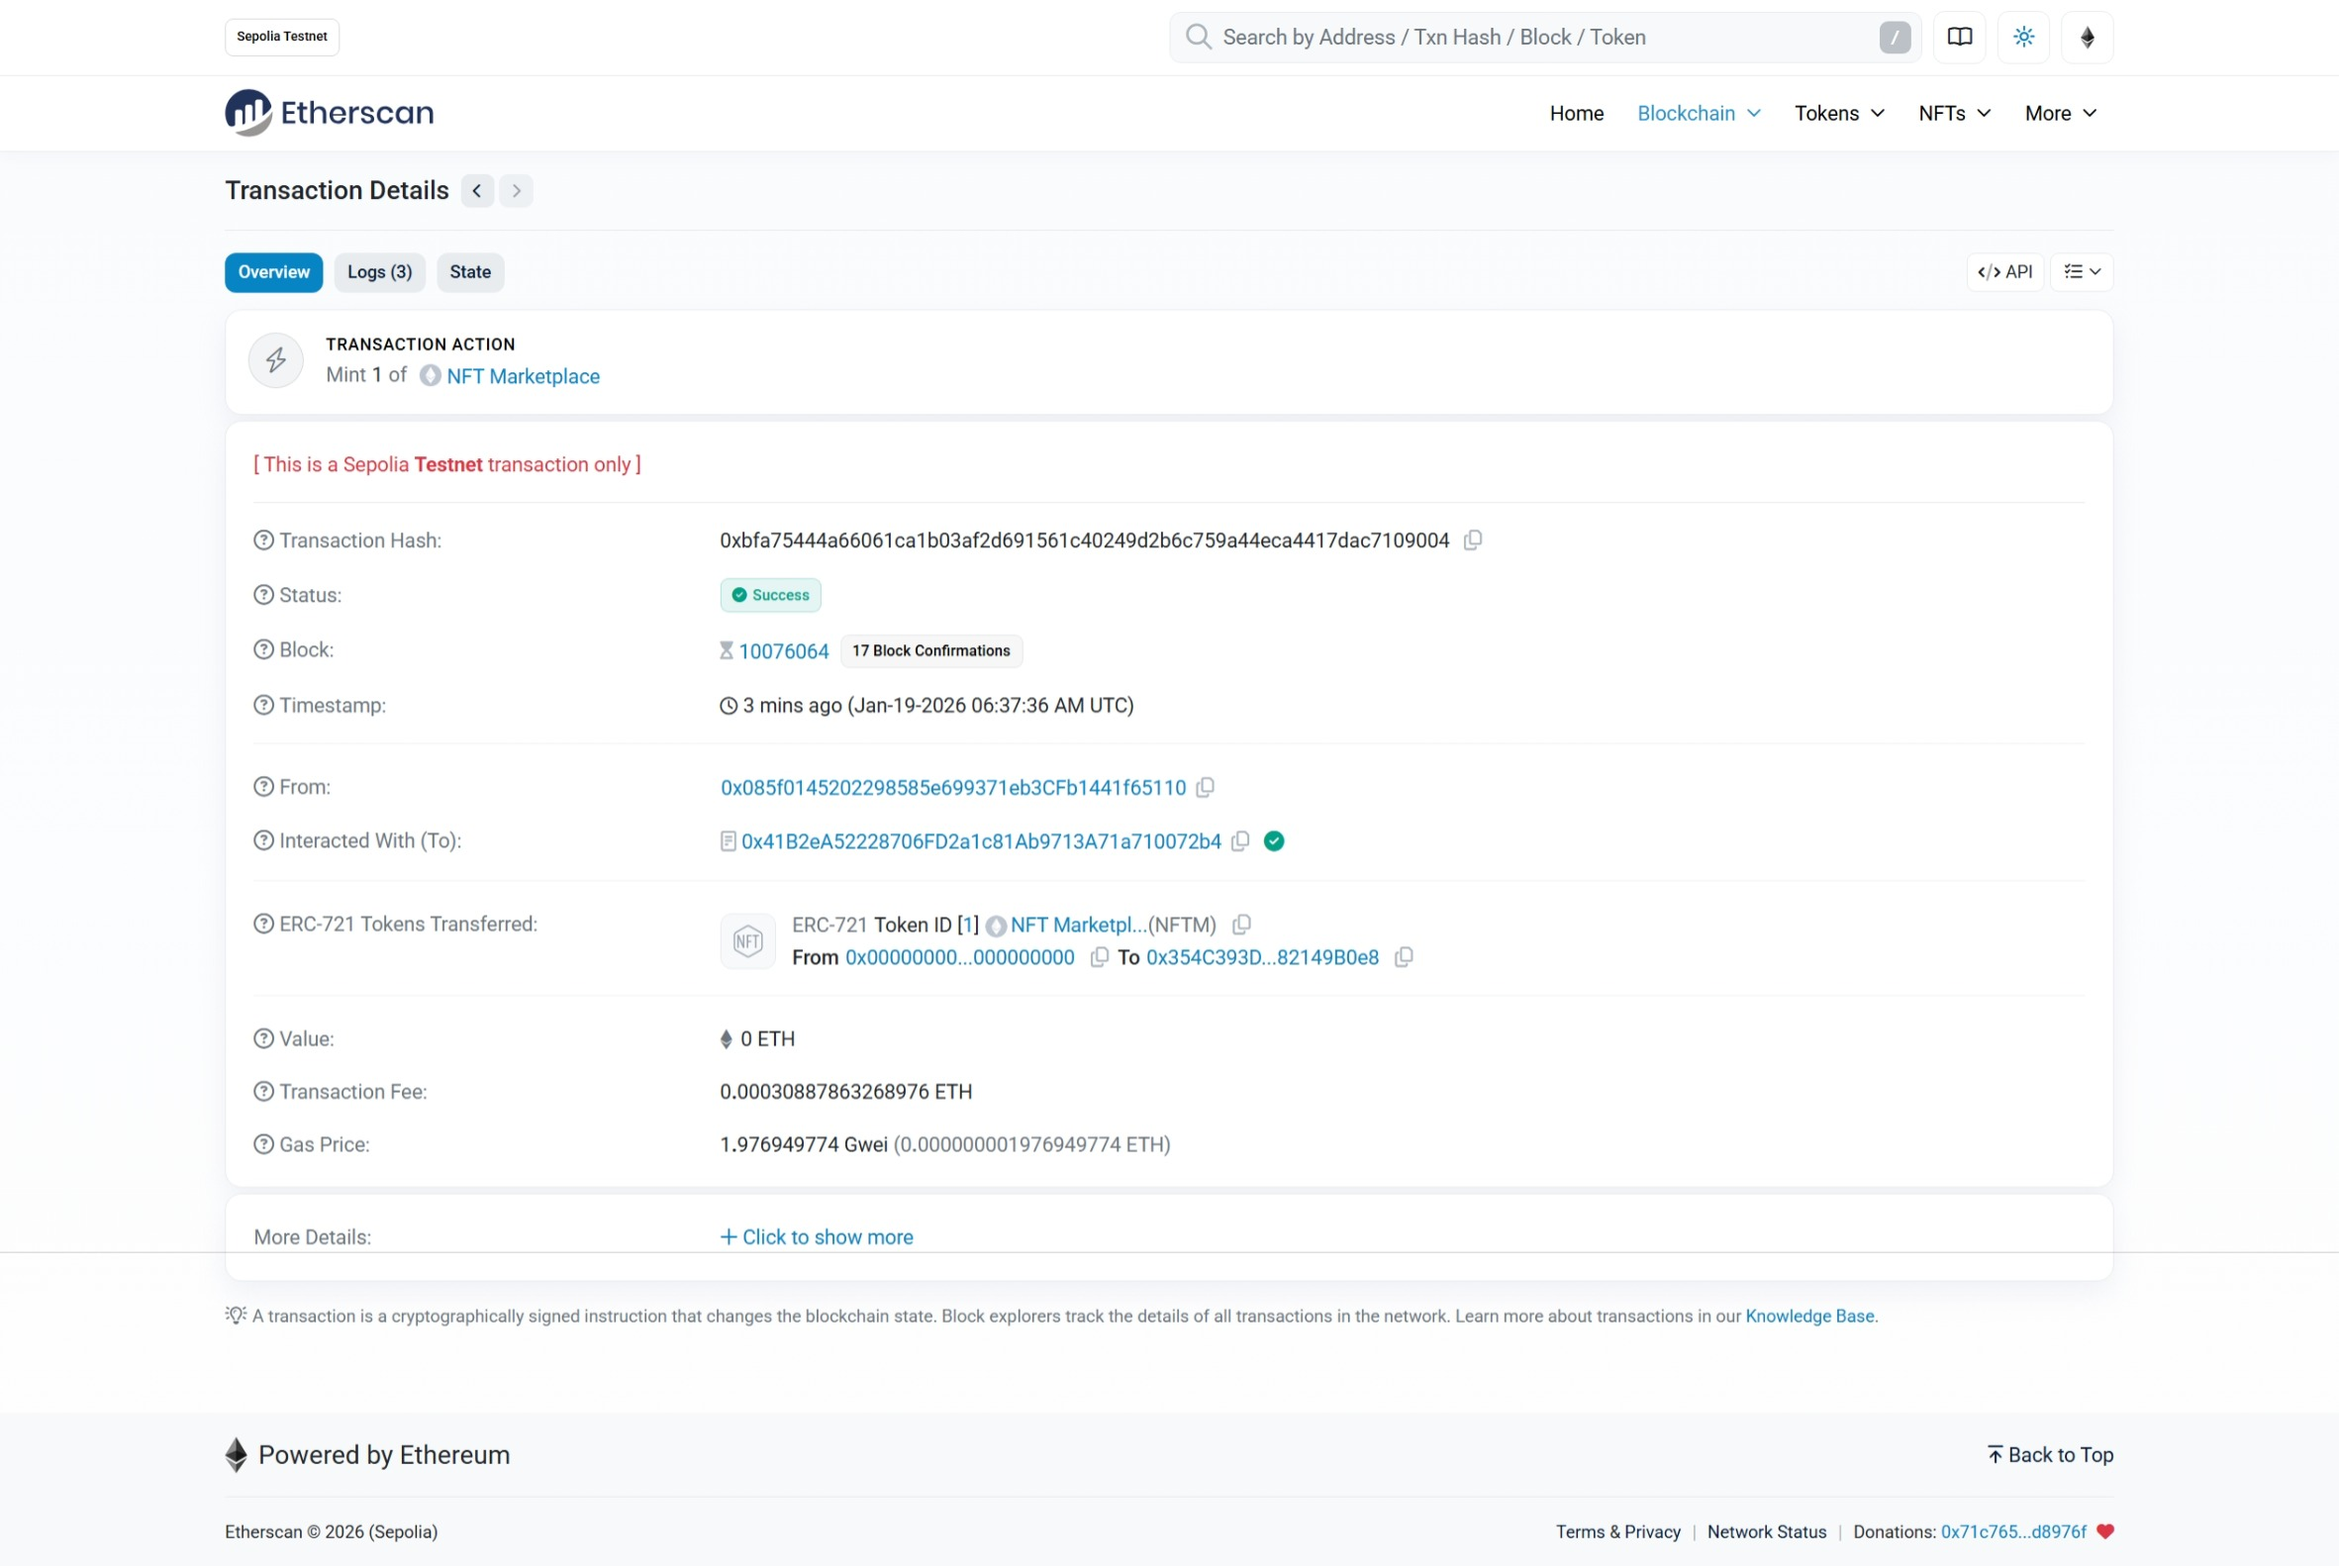
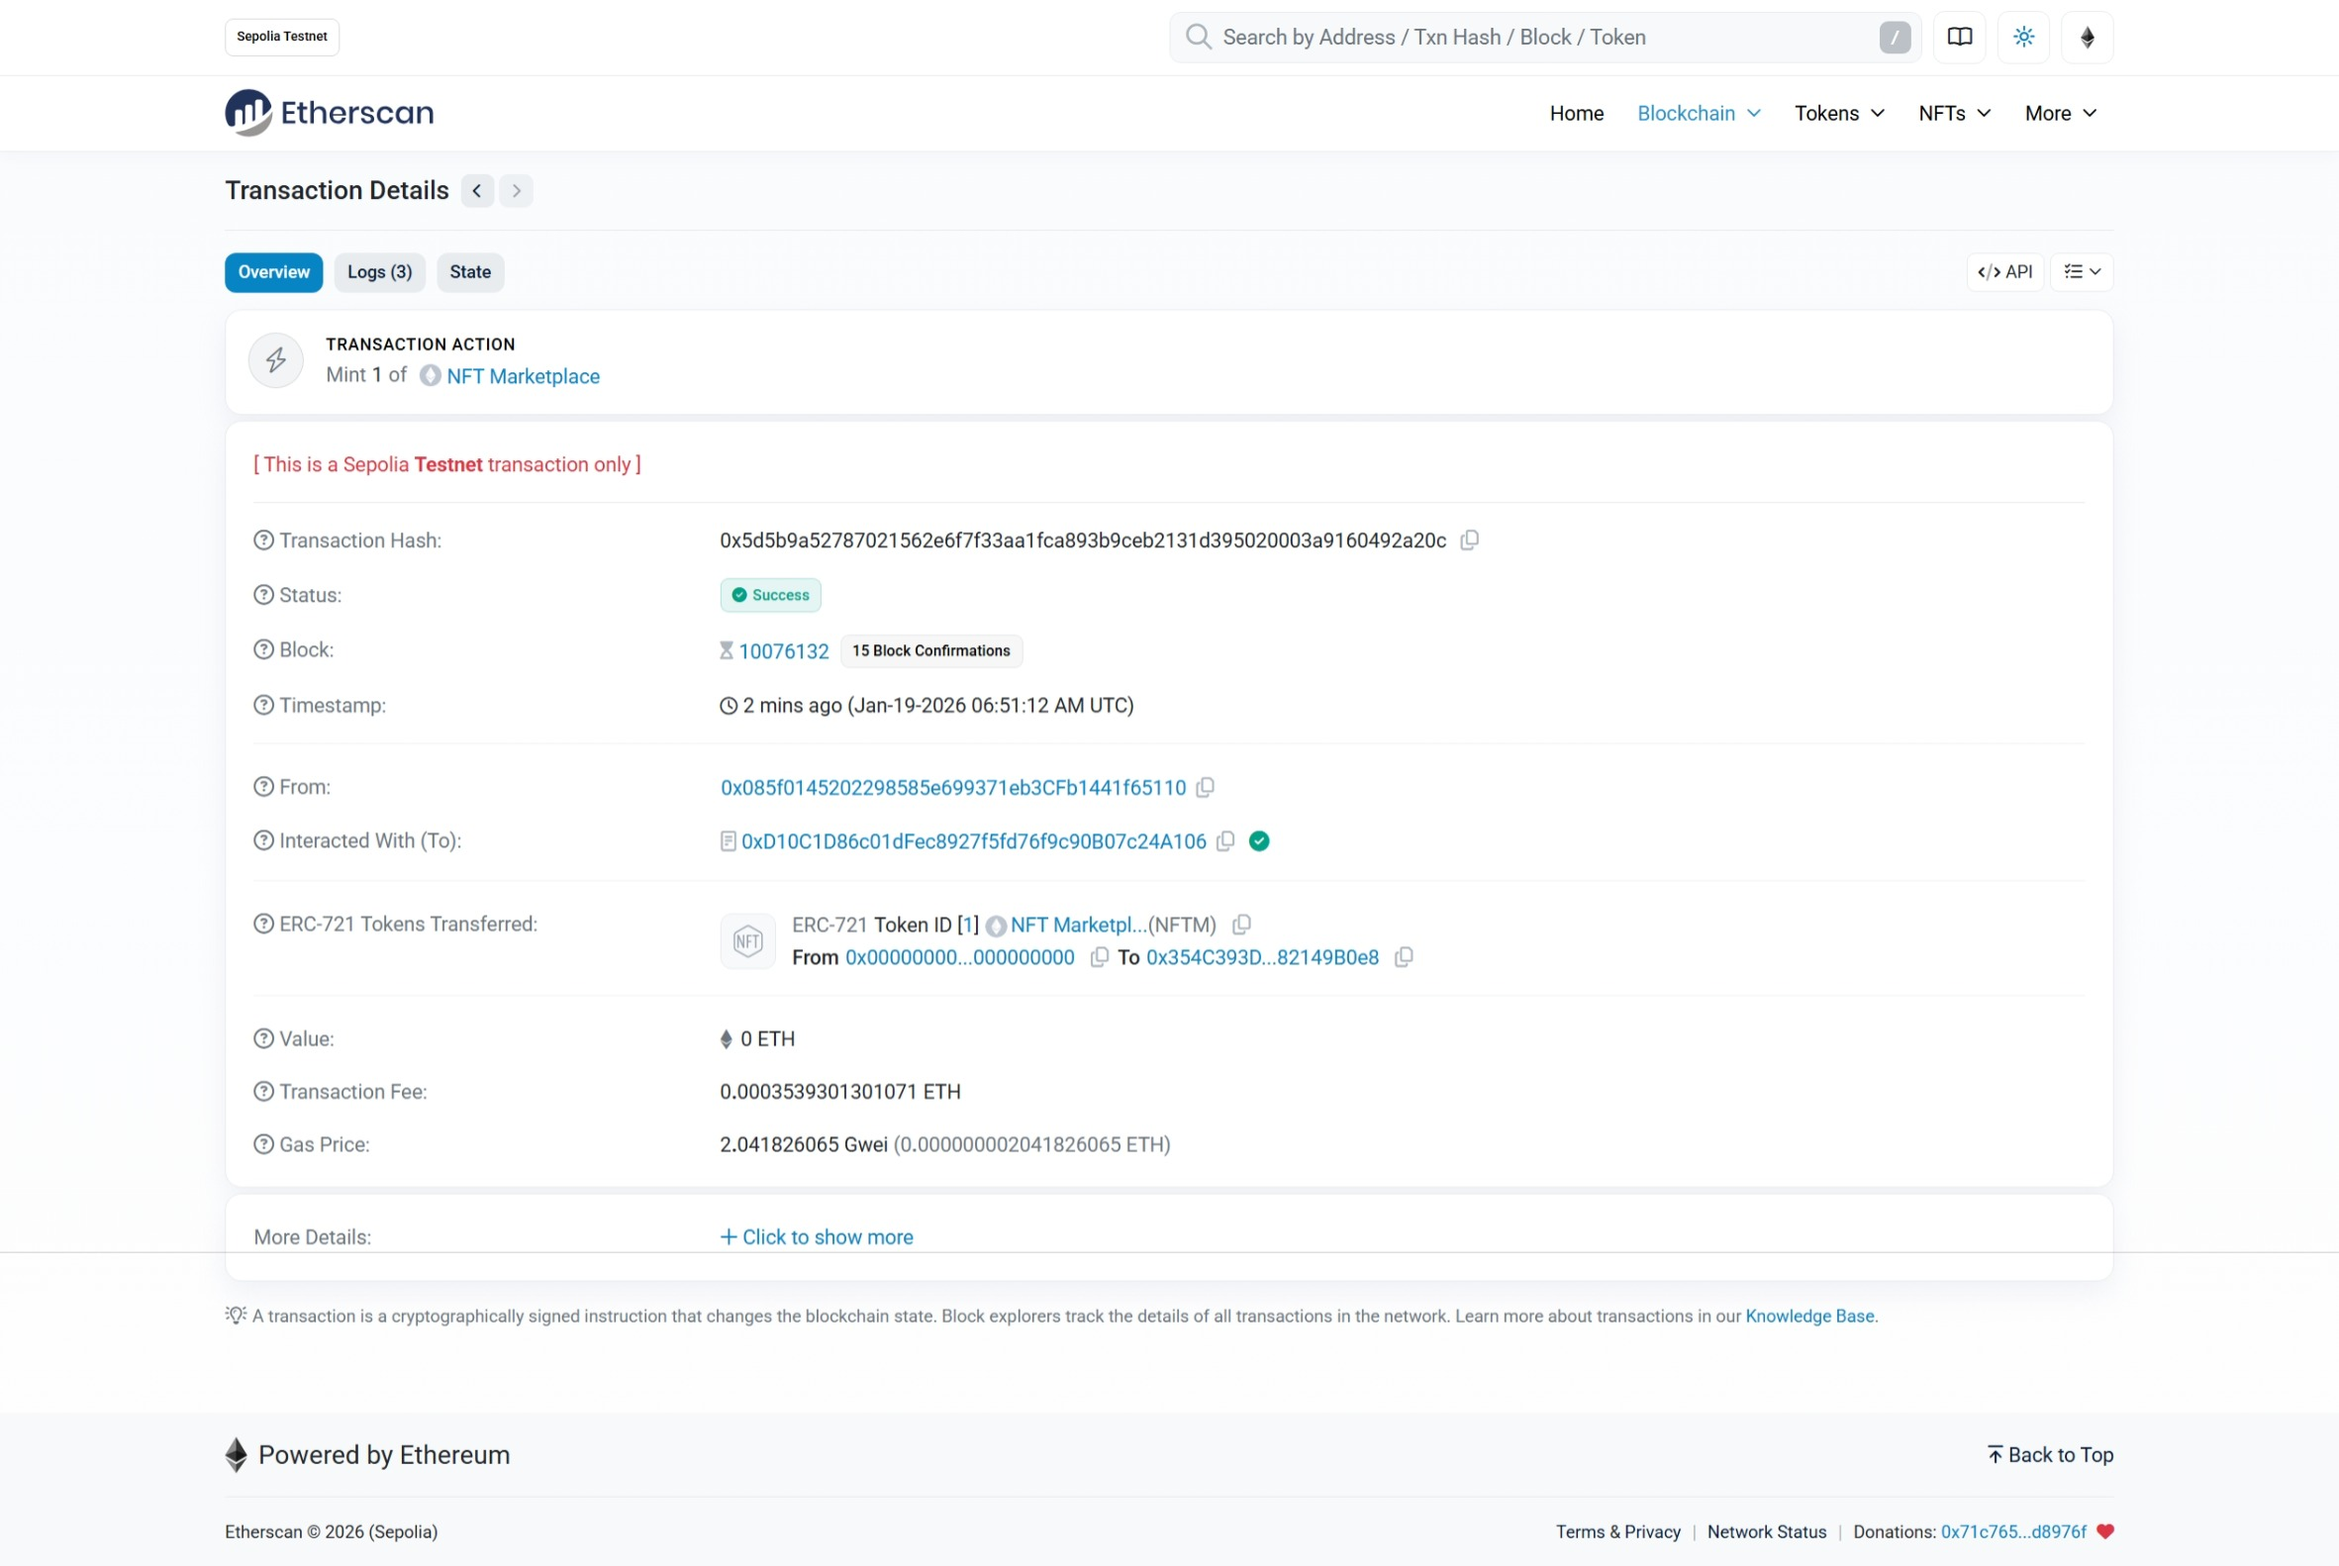
更新TEST_REPORT.md，修正NFT合约地址、交易哈希、区块号和Gas使用量，确保测试结果的准确性。同时，更新Etherscan链接和相关截图，反映最新的交易状态和NFT铸造情况，新增拍卖功能测试步骤及参数说明，提升文档的完整性和可读性。

diff --git a/task3/nft-auction-market/TEST_REPORT.md b/task3/nft-auction-market/TEST_REPORT.md
@@ -178,7 +178,7 @@ cast balance $ACCOUNT_A --rpc-url $SEPOLIA_RPC_URL
 
 | 合约类型 | 地址 | Etherscan |
 |---------|------|-----------|
-| NFT 合约 | 0x41B2eA52228706FD2a1c81Ab9713A71a710072b4 | [查看](https://sepolia.etherscan.io/address/0x41B2eA52228706FD2a1c81Ab9713A71a710072b4) |
+| NFT 合约 | 0xD10C1D86c01dFec8927f5fd76f9c90B07c24A106 | [查看](https://sepolia.etherscan.io/address/0xD10C1D86c01dFec8927f5fd76f9c90B07c24A106) |
 | 拍卖代理合约 | 0x7842104E7ad9f14eCF5aB0352bc6d9d8D6560240 | [查看](https://sepolia.etherscan.io/address/0x7842104E7ad9f14eCF5aB0352bc6d9d8D6560240) |
 
 ---
@@ -225,14 +225,15 @@ cast send $NFT_CONTRACT_ADDRESS \
 
 **测试结果**：
 ```
-交易哈希: 0xbfa75444a66061ca1b03af2d691561c40249d2b6c759a44eca4417dac7109004
+交易哈希: 0x5d5b9a52787021562e6f7f33aa1fca893b9ceb2131d395020003a9160492a20c
 交易状态: ✅ 成功 (status: 1)
-区块号: 10076064
-Gas 使用量: 156,240
+区块号: 10076132
+Gas 使用量: 173,340
 Token ID: 1
 元数据 URI: ipfs://bafkreibzpga6rc7akp6okq5mimpjrgdffheut5xvag6zrqjil7eqbxaz4u
+NFT 合约地址: 0xD10C1D86c01dFec8927f5fd76f9c90B07c24A106
 
-Etherscan: https://sepolia.etherscan.io/tx/0xbfa75444a66061ca1b03af2d691561c40249d2b6c759a44eca4417dac7109004
+Etherscan: https://sepolia.etherscan.io/tx/0x5d5b9a52787021562e6f7f33aa1fca893b9ceb2131d395020003a9160492a20c
 
 事件日志:
 - Transfer 事件: NFT 从零地址转移到 Account B (0x354c393daf549da43485ffe85be464d82149b0e8)，Token ID = 1
@@ -245,7 +246,7 @@ Etherscan: https://sepolia.etherscan.io/tx/0xbfa75444a66061ca1b03af2d691561c4024
 > 1. **终端命令执行结果**：显示 `cast send` 命令的完整输出（包含交易哈希、状态、Gas 使用量等）
 
   ![cast-send](./img/cast-send-nft-mint.png)
-> 2. **Etherscan 交易详情页**：访问 [交易链接](https://sepolia.etherscan.io/tx/0xbfa75444a66061ca1b03af2d691561c40249d2b6c759a44eca4417dac7109004) 并截图，显示：
+> 2. **Etherscan 交易详情页**：访问 [交易链接](https://sepolia.etherscan.io/tx/0x5d5b9a52787021562e6f7f33aa1fca893b9ceb2131d395020003a9160492a20c) 并截图，显示：
 >    - 交易状态（Success ✅）
 >    - 交易详情（From/To 地址、Gas Used、区块号等）
 >    - 事件日志（Transfer 和 TokenURI 事件）
@@ -271,17 +272,56 @@ cast call $NFT_CONTRACT_ADDRESS \
 
 **测试结果**：
 ```
-[在此处粘贴命令输出]
+cjq_ubuntu@LAPTOP-CJQ:~/web3/projects/solidity-task/task3/nft-auction-market$ cast call $NFT_CONTRACT_ADDRESS \
+  "ownerOf(uint256)(address)" \
+  1 \
+  --rpc-url $SEPOLIA_RPC_URL
+0x354C393Daf549Da43485FFe85Be464d82149B0e8
+cjq_ubuntu@LAPTOP-CJQ:~/web3/projects/solidity-task/task3/nft-auction-market$ cast call $NFT_CONTRACT_ADDRESS \
+  "tokenURI(uint256)(string)" \
+  1 \
+  --rpc-url $SEPOLIA_RPC_URL
+"ipfs://bafkreibzpga6rc7akp6okq5mimpjrgdffheut5xvag6zrqjil7eqbxaz4u"
 ```
-
-**截图**：
-> [在此处粘贴截图]
 
 ---
 
 ### 4.3 拍卖功能测试
 
 #### 测试 4.3.1：创建 ETH 拍卖
+
+**步骤 1：授权拍卖合约转移 NFT**
+
+```bash
+# Account B 授权拍卖合约可以转移 Token ID 1
+cast send $NFT_CONTRACT_ADDRESS \
+  "approve(address,uint256)" \
+  $AUCTION_PROXY_ADDRESS \
+  1 \
+  --rpc-url $SEPOLIA_RPC_URL \
+  --private-key $ACCOUNT_B_PRIVATE_KEY
+
+# 或者使用 setApprovalForAll 授权所有 NFT（推荐）
+# cast send $NFT_CONTRACT_ADDRESS \
+#   "setApprovalForAll(address,bool)" \
+#   $AUCTION_PROXY_ADDRESS \
+#   true \
+#   --rpc-url $SEPOLIA_RPC_URL \
+#   --private-key $ACCOUNT_B_PRIVATE_KEY
+```
+
+**授权参数说明**：
+
+| 参数 | 值 | 说明 |
+|------|-----|------|
+| 函数 | `approve(address,uint256)` | 授权特定 NFT 给指定地址 |
+| `address` | `$AUCTION_PROXY_ADDRESS` | 被授权的地址（拍卖合约） |
+| `uint256` | `1` | 被授权的 Token ID |
+| 函数（替代） | `setApprovalForAll(address,bool)` | 授权所有 NFT 给指定地址 |
+| `address` | `$AUCTION_PROXY_ADDRESS` | 被授权的地址（拍卖合约） |
+| `bool` | `true` | `true` = 授权，`false` = 取消授权 |
+
+**步骤 2：创建拍卖**
 
 ```bash
 # Account B 创建拍卖
@@ -293,15 +333,27 @@ cast send $AUCTION_PROXY_ADDRESS \
   100000000000000000000 \
   0x0000000000000000000000000000000000000000 \
   --rpc-url $SEPOLIA_RPC_URL \
-  --private-key $PRIVATE_KEY
+  --private-key $ACCOUNT_B_PRIVATE_KEY
 ```
 
 **参数说明**：
-- `NFT_CONTRACT_ADDRESS`: NFT 合约地址
-- `1`: tokenId
-- `3600`: 持续时间（秒）= 1 小时
-- `100000000000000000000`: 最低出价 100 USD (18 decimals)
-- `0x0000000000000000000000000000000000000000`: ETH 地址
+
+| 参数位置 | 参数值 | 说明 |
+|---------|--------|------|
+| 函数签名 | `createAuction(address,uint256,uint256,uint256,address)` | 创建拍卖函数 |
+| 参数 1 | `$NFT_CONTRACT_ADDRESS` | NFT 合约地址（当前：`0xD10C1D86c01dFec8927f5fd76f9c90B07c24A106`） |
+| 参数 2 | `1` | Token ID（要拍卖的 NFT ID，从 1 开始） |
+| 参数 3 | `3600` | 持续时间（秒）= 1 小时（3600 秒） |
+| 参数 4 | `100000000000000000000` | 最低出价（USD，18 位小数）= 100 USD<br>计算：`100 * 10^18 = 100000000000000000000` |
+| 参数 5 | `0x0000000000000000000000000000000000000000` | 支付代币地址<br>- `0x0000...0000`：使用 ETH 出价<br>- 其他地址：使用 ERC20 代币出价 |
+| `--rpc-url` | `$SEPOLIA_RPC_URL` | Sepolia 测试网 RPC 端点 |
+| `--private-key` | `$ACCOUNT_B_PRIVATE_KEY` | Account B 的私钥（NFT 所有者） |
+
+**注意事项**：
+- ⚠ **必须先授权**：创建拍卖前需要先调用 `approve` 授权拍卖合约
+- ⚠ **NFT 所有者**：调用者必须是 NFT 的所有者（Token ID 1 属于 Account B）
+- ✅ **最低出价单位**：使用 18 位小数，100 USD = `100 * 10^18`
+- ✅ **持续时间**：以秒为单位，3600 秒 = 1 小时
 
 **测试结果**：
 ```
